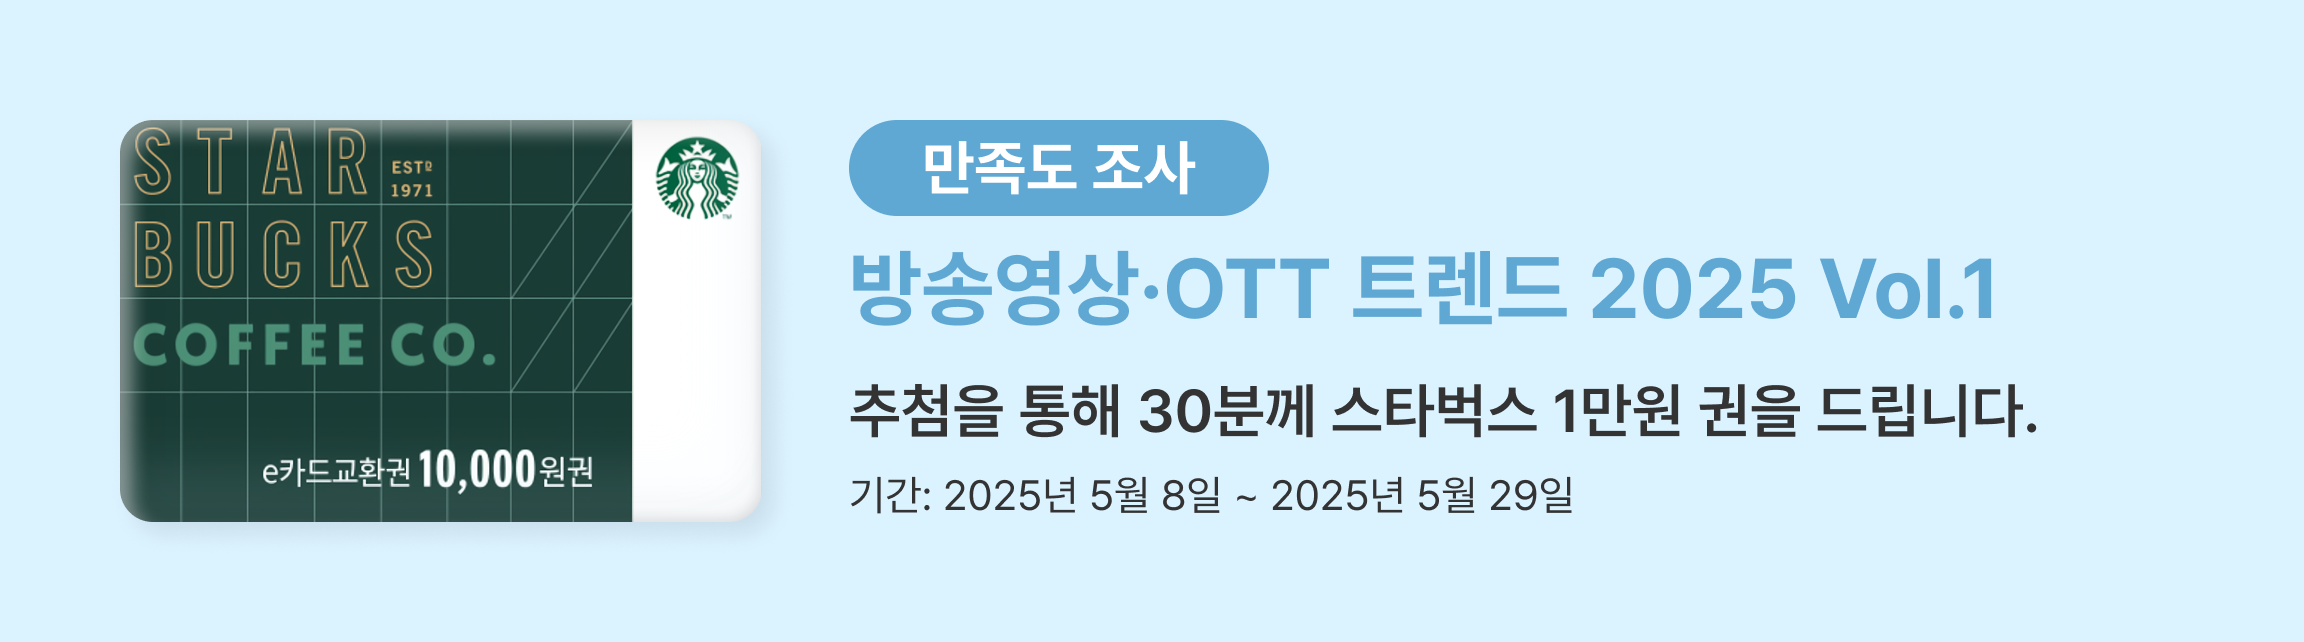
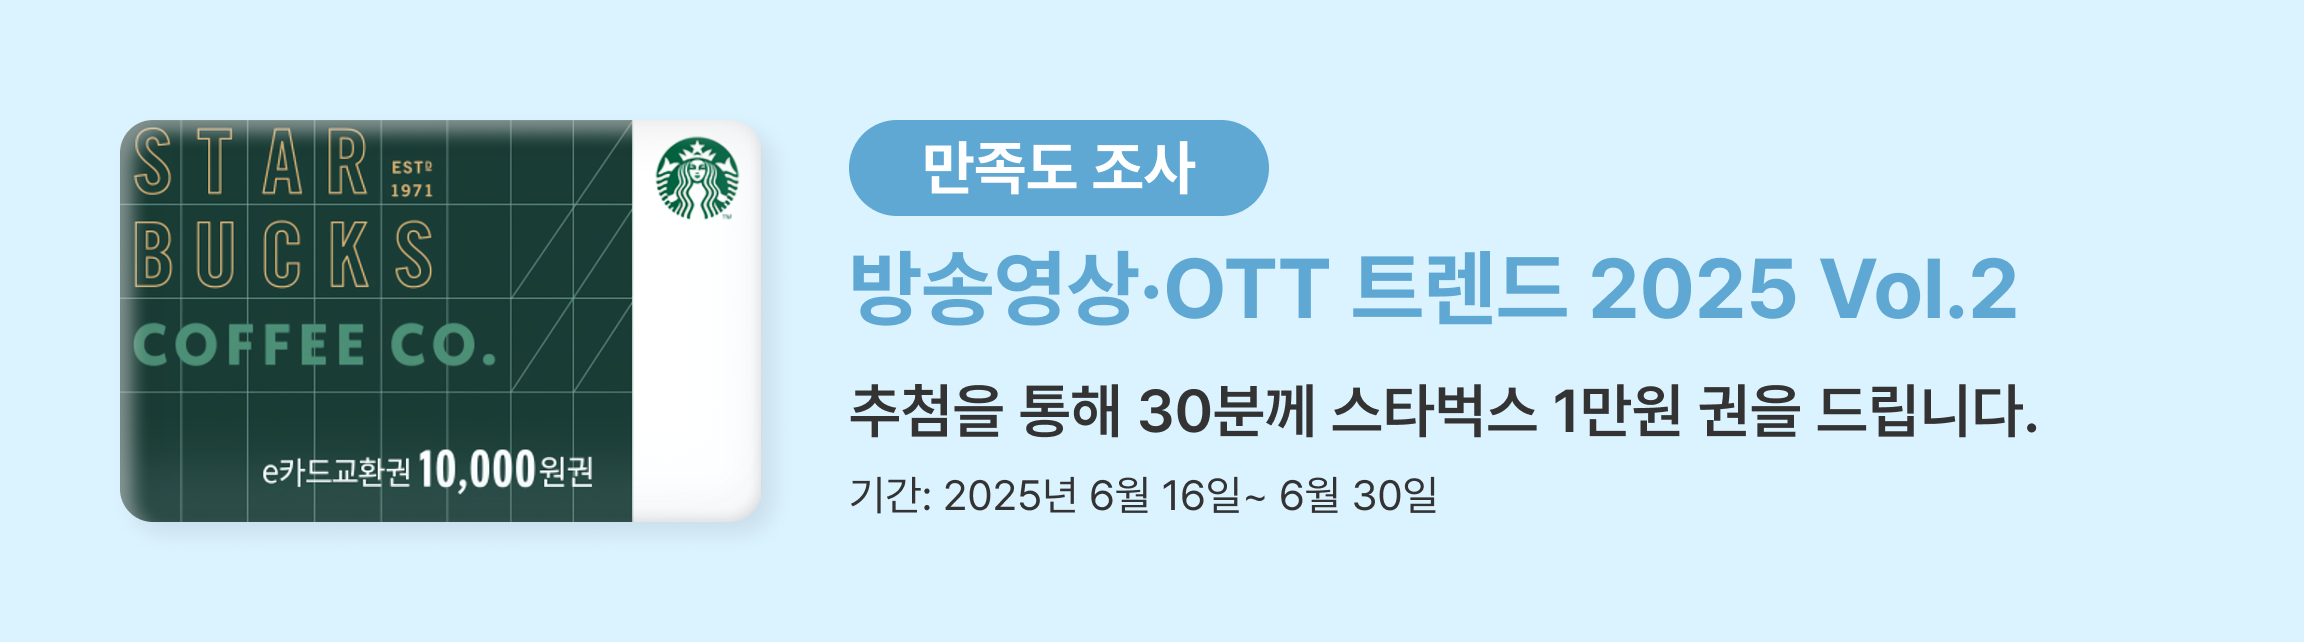
qa: 1차

Changed region(s): [[0.4688, 0.7477, 0.6875, 0.81], [0.8438, 0.405, 0.875, 0.4984]]

diff --git a/global_3.html b/global_3.html
@@ -104,7 +104,7 @@
 
             <div class="subtitle-inner">
               <div class="subtitle-bar-mobile"></div>
-              <div class="subtitle-text">1. 글로벌 시장에서 떠오르는 FAST의 경쟁력과 성장세</div>
+              <div class="subtitle-text">글로벌 시장에서 떠오르는 FAST의 경쟁력과 성장세</div>
             </div>
           </div>
 
@@ -165,7 +165,7 @@
 
             <div class="subtitle-inner">
               <div class="subtitle-bar-mobile"></div>
-              <div class="subtitle-text">2. FAST의 수익 모델과 콘텐츠 전략 </div>
+              <div class="subtitle-text">FAST의 수익 모델과 콘텐츠 전략 </div>
             </div>
           </div>
 
@@ -212,7 +212,7 @@
 
             <div class="subtitle-inner">
               <div class="subtitle-bar-mobile"></div>
-              <div class="subtitle-text">3. 글로벌 시장의 FAST 확장 사례와 국내 시장 전망</div>
+              <div class="subtitle-text">글로벌 시장의 FAST 확장 사례와 국내 시장 전망</div>
             </div>
           </div>
 
@@ -334,7 +334,7 @@
               </div>
               <div>
                 <p>발행일</p>
-                <p>2025년 5월 7일</p>
+                <p>2025년 6월 16일</p>
               </div>
               <div>
                 <p>발행처</p>
@@ -360,6 +360,8 @@
                 <div style="display: flex; gap:4px; flex-direction: column;">
                   <p>이성민(한국방송통신대학교 미디어영상학과 부교수)</p>
                   <p>채정화(서강대학교 ICT법경제연구소 연구교수)</p>
+                  <p>김정환(고려대학교 미디어학부 부교수)</p>
+                  <p>강혜원(성균관대학교 컬처앤테크놀로지융합전공 초빙교수 )</p>
                 </div>
               </div>
 

diff --git a/global_1.html b/global_1.html
@@ -105,7 +105,7 @@
 
             <div class="subtitle-inner">
               <div class="subtitle-bar-mobile"></div>
-              <div class="subtitle-text">1. 미국 OTT의 스포츠 생중계</div>
+              <div class="subtitle-text">미국 OTT의 스포츠 생중계</div>
             </div>
           </div>
 
@@ -169,7 +169,7 @@
 
             <div class="subtitle-inner">
               <div class="subtitle-bar-mobile"></div>
-              <div class="subtitle-text">2. 미국 OTT의 라이브 이벤트 생중계</div>
+              <div class="subtitle-text">미국 OTT의 라이브 이벤트 생중계</div>
             </div>
           </div>
 
@@ -232,7 +232,7 @@
 
             <div class="subtitle-inner">
               <div class="subtitle-bar-mobile"></div>
-              <div class="subtitle-text">3. 2025년 미국 OTT의 라이브 이벤트 생중계 계획</div>
+              <div class="subtitle-text">2025년 미국 OTT의 라이브 이벤트 생중계 계획</div>
             </div>
           </div>
 
@@ -413,7 +413,7 @@
               </div>
               <div>
                 <p>발행일</p>
-                <p>2025년 5월 7일</p>
+                <p>2025년 6월 16일</p>
               </div>
               <div>
                 <p>발행처</p>
@@ -439,6 +439,8 @@
                 <div style="display: flex; gap:4px; flex-direction: column;">
                   <p>이성민(한국방송통신대학교 미디어영상학과 부교수)</p>
                   <p>채정화(서강대학교 ICT법경제연구소 연구교수)</p>
+                  <p>김정환(고려대학교 미디어학부 부교수)</p>
+                  <p>강혜원(성균관대학교 컬처앤테크놀로지융합전공 초빙교수 )</p>
                 </div>
               </div>
 

diff --git a/spotlight_3.html b/spotlight_3.html
@@ -111,7 +111,7 @@
 
             <div class="subtitle-inner">
               <div class="subtitle-bar-mobile"></div>
-              <div class="subtitle-text">1. AI 창작물이 불러온 지식재산권 쟁점</div>
+              <div class="subtitle-text">AI 창작물이 불러온 지식재산권 쟁점</div>
             </div>
           </div>
 
@@ -203,7 +203,7 @@
 
             <div class="subtitle-inner">
               <div class="subtitle-bar-mobile"></div>
-              <div class="subtitle-text">2. AI 활용 창작물의 법적 보호, 복합적 과제로 남아</div>
+              <div class="subtitle-text">AI 활용 창작물의 법적 보호, 복합적 과제로 남아</div>
             </div>
           </div>
 
@@ -303,7 +303,7 @@
               </div>
               <div>
                 <p>발행일</p>
-                <p>2025년 5월 7일</p>
+                <p>2025년 6월 16일</p>
               </div>
               <div>
                 <p>발행처</p>
@@ -329,6 +329,8 @@
                 <div style="display: flex; gap:4px; flex-direction: column;">
                   <p>이성민(한국방송통신대학교 미디어영상학과 부교수)</p>
                   <p>채정화(서강대학교 ICT법경제연구소 연구교수)</p>
+                  <p>김정환(고려대학교 미디어학부 부교수)</p>
+                  <p>강혜원(성균관대학교 컬처앤테크놀로지융합전공 초빙교수 )</p>
                 </div>
               </div>
 

diff --git a/js/swiper-init.js b/js/swiper-init.js
@@ -4,32 +4,32 @@ document.addEventListener("DOMContentLoaded", () => {
       sectionName: "스포트라이트",
       theme: "인공지능(AI)와 방송영상 콘텐츠",
       item: "방송영상콘텐츠의 다음 장을 여는 AI 기술과 창작자의 역할",
-      img: "./img/manuscript1/thum.png",
+      img: "./img/manuscript1/banner.png",
     },
     {
       sectionName: "글로벌 마켓 리포트",
       theme: "",
       item: "스트리밍을 넘어서: 미국 OTT의 실시간 콘텐츠 도전과 진화",
-      img: "./img/manuscript5/thum.png",
+      img: "./img/manuscript5/banner.png",
     },
     {
       sectionName: "피플 인사이트",
       theme: "AI 활용한 영상콘텐츠 제작자를 만나다!",
       item: "스튜디오메타케이, 김광집 대표<br>무암, 현해리 대표",
-      img: "./img/manuscript8/banner-pc.png",
-      imgMobile: "./img/manuscript8/banner-pc.png",
+      img: "./img/manuscript8/banner.png",
+      // imgMobile: "./img/manuscript8/banner-pc.png",
     },
     {
       sectionName: "트렌드 하이라이트",
       theme: "",
       item: "미드 명가, HBO의 국내 상륙기",
-      img: "./img/manuscript10/thum.png",
+      img: "./img/manuscript10/banner.png",
     },
     {
       sectionName: "데이터 포인트",
       theme: "",
       item: "2024-2025 글로벌 방송 포맷 시장 동향과 트렌드",
-      img: "./img/manuscript14/thum.jpg",
+      img: "./img/manuscript14/banner.png",
     },
   ];
 

diff --git a/index.html b/index.html
@@ -389,7 +389,7 @@
 
   <!-- 만족도 조사 -->
   <div>
-    <a href="https://docs.google.com/forms/d/e/1FAIpQLSehXuP53N_90axo6Wv6UnGeRShdkFN2qEachT6BYZec5n499w/viewform"
+    <a href="https://docs.google.com/forms/d/e/1FAIpQLSePn2E1f2N_yRNh7L4XX9l0E07jJUVzzCo4DQTLZWY-CIH8NQ/viewform?usp=dialog"
       target="_blank" class="survey-link">
       <img src="./img/assets/survey-banner-pc.png" alt="만족도 조사 이미지">
       <img src="./img/assets/survey-banner-mobile.png" alt="만족도 조사 이미지">
@@ -423,7 +423,7 @@
               </div>
               <div>
                 <p>발행일</p>
-                <p>2025년 5월 7일</p>
+                <p>2025년 6월 16일</p>
               </div>
               <div>
                 <p>발행처</p>
@@ -449,6 +449,8 @@
                 <div style="display: flex; gap:4px; flex-direction: column;">
                   <p>이성민(한국방송통신대학교 미디어영상학과 부교수)</p>
                   <p>채정화(서강대학교 ICT법경제연구소 연구교수)</p>
+                  <p>김정환(고려대학교 미디어학부 부교수)</p>
+                  <p>강혜원(성균관대학교 컬처앤테크놀로지융합전공 초빙교수 )</p>
                 </div>
               </div>
 

diff --git a/css/main.css b/css/main.css
@@ -390,7 +390,6 @@ div, span, applet, object, iframe, h1, h2, h3, h4, h5, h6, p, blockquote, pre, a
   align-items: flex-end;
   padding: 24px;
   width: 100%;
-  height: 378px;
   border-radius: 12px;
   border: 4px solid transparent;
   overflow: hidden;
@@ -398,6 +397,17 @@ div, span, applet, object, iframe, h1, h2, h3, h4, h5, h6, p, blockquote, pre, a
   color: white;
   transition: all 0.3s ease;
   scroll-snap-align: start;
+}
+
+.spotlight-item {
+  height: 378px;
+}
+
+.global-item,
+.people-item,
+.trend-item,
+.data-item {
+  height: 300px;
 }
 
 .spotlight-item:hover,
@@ -429,7 +439,7 @@ div, span, applet, object, iframe, h1, h2, h3, h4, h5, h6, p, blockquote, pre, a
 .item-overlay {
   position: absolute;
   inset: 0;
-  background: linear-gradient(to top, rgba(0, 0, 0, 0.7), rgba(0, 0, 0, 0.1));
+  background: linear-gradient(to top, rgba(0, 0, 0, 0.6), rgba(0, 0, 0, 0));
   z-index: 1;
 }
 

diff --git a/data_1.html b/data_1.html
@@ -265,7 +265,7 @@
               </div>
               <div>
                 <p>발행일</p>
-                <p>2025년 5월 7일</p>
+                <p>2025년 6월 16일</p>
               </div>
               <div>
                 <p>발행처</p>
@@ -291,6 +291,8 @@
                 <div style="display: flex; gap:4px; flex-direction: column;">
                   <p>이성민(한국방송통신대학교 미디어영상학과 부교수)</p>
                   <p>채정화(서강대학교 ICT법경제연구소 연구교수)</p>
+                  <p>김정환(고려대학교 미디어학부 부교수)</p>
+                  <p>강혜원(성균관대학교 컬처앤테크놀로지융합전공 초빙교수 )</p>
                 </div>
               </div>
 

diff --git a/data_2.html b/data_2.html
@@ -329,7 +329,7 @@
               </div>
               <div>
                 <p>발행일</p>
-                <p>2025년 5월 7일</p>
+                <p>2025년 6월 16일</p>
               </div>
               <div>
                 <p>발행처</p>
@@ -355,6 +355,8 @@
                 <div style="display: flex; gap:4px; flex-direction: column;">
                   <p>이성민(한국방송통신대학교 미디어영상학과 부교수)</p>
                   <p>채정화(서강대학교 ICT법경제연구소 연구교수)</p>
+                  <p>김정환(고려대학교 미디어학부 부교수)</p>
+                  <p>강혜원(성균관대학교 컬처앤테크놀로지융합전공 초빙교수 )</p>
                 </div>
               </div>
 

diff --git a/global_2.html b/global_2.html
@@ -372,7 +372,7 @@
               </div>
               <div>
                 <p>발행일</p>
-                <p>2025년 5월 7일</p>
+                <p>2025년 6월 16일</p>
               </div>
               <div>
                 <p>발행처</p>
@@ -398,6 +398,8 @@
                 <div style="display: flex; gap:4px; flex-direction: column;">
                   <p>이성민(한국방송통신대학교 미디어영상학과 부교수)</p>
                   <p>채정화(서강대학교 ICT법경제연구소 연구교수)</p>
+                  <p>김정환(고려대학교 미디어학부 부교수)</p>
+                  <p>강혜원(성균관대학교 컬처앤테크놀로지융합전공 초빙교수 )</p>
                 </div>
               </div>
 

diff --git a/people_1.html b/people_1.html
@@ -301,7 +301,7 @@
               </div>
               <div>
                 <p>발행일</p>
-                <p>2025년 5월 7일</p>
+                <p>2025년 6월 16일</p>
               </div>
               <div>
                 <p>발행처</p>
@@ -327,6 +327,8 @@
                 <div style="display: flex; gap:4px; flex-direction: column;">
                   <p>이성민(한국방송통신대학교 미디어영상학과 부교수)</p>
                   <p>채정화(서강대학교 ICT법경제연구소 연구교수)</p>
+                  <p>김정환(고려대학교 미디어학부 부교수)</p>
+                  <p>강혜원(성균관대학교 컬처앤테크놀로지융합전공 초빙교수 )</p>
                 </div>
               </div>
 

diff --git a/people_2.html b/people_2.html
@@ -300,7 +300,7 @@
               </div>
               <div>
                 <p>발행일</p>
-                <p>2025년 5월 7일</p>
+                <p>2025년 6월 16일</p>
               </div>
               <div>
                 <p>발행처</p>
@@ -326,6 +326,8 @@
                 <div style="display: flex; gap:4px; flex-direction: column;">
                   <p>이성민(한국방송통신대학교 미디어영상학과 부교수)</p>
                   <p>채정화(서강대학교 ICT법경제연구소 연구교수)</p>
+                  <p>김정환(고려대학교 미디어학부 부교수)</p>
+                  <p>강혜원(성균관대학교 컬처앤테크놀로지융합전공 초빙교수 )</p>
                 </div>
               </div>
 

diff --git a/spotlight_1.html b/spotlight_1.html
@@ -281,7 +281,7 @@
               </div>
               <div>
                 <p>발행일</p>
-                <p>2025년 5월 7일</p>
+                <p>2025년 6월 16일</p>
               </div>
               <div>
                 <p>발행처</p>
@@ -307,6 +307,8 @@
                 <div style="display: flex; gap:4px; flex-direction: column;">
                   <p>이성민(한국방송통신대학교 미디어영상학과 부교수)</p>
                   <p>채정화(서강대학교 ICT법경제연구소 연구교수)</p>
+                  <p>김정환(고려대학교 미디어학부 부교수)</p>
+                  <p>강혜원(성균관대학교 컬처앤테크놀로지융합전공 초빙교수 )</p>
                 </div>
               </div>
 
